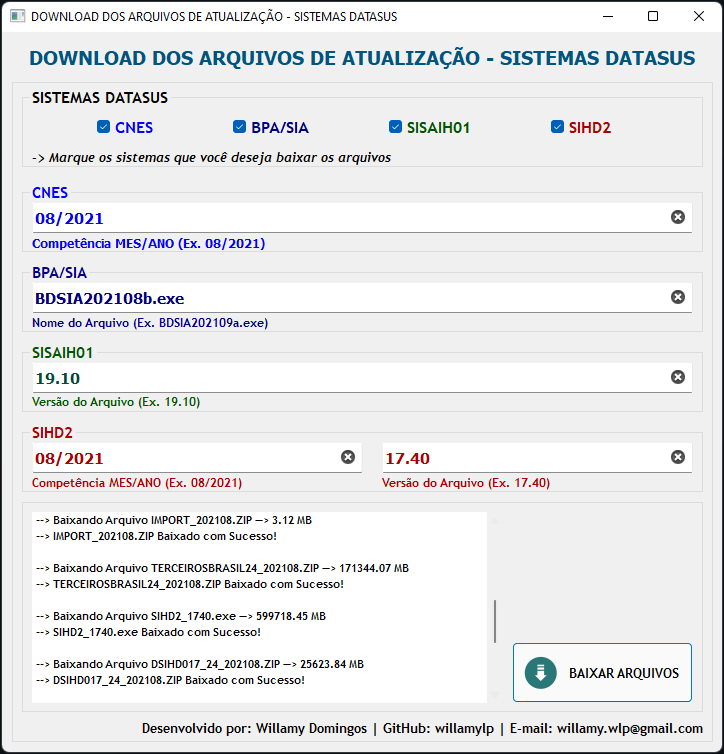
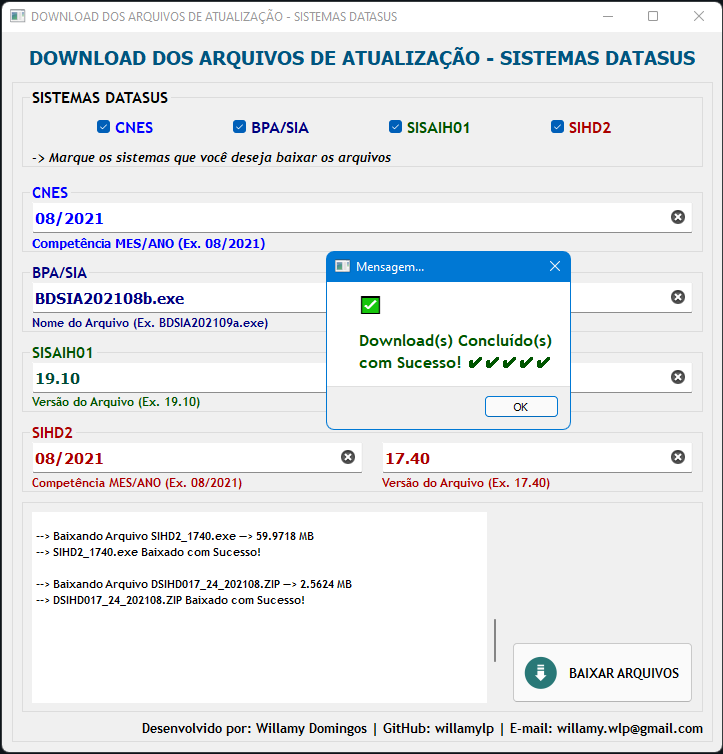
Ajustes na UI: Inserindo MessageBox

diff --git a/main.py b/main.py
@@ -3,8 +3,7 @@ import sys
 from ftplib import FTP
 import getpass
 from ui.UI import Ui_Sys_Datasus
-
-from PyQt5.QtWidgets import QApplication, QMainWindow
+from PyQt5.QtWidgets import QApplication, QMainWindow, QMessageBox, QDialog, QPushButton
 
 class Download_FTP:
     def __init__(self):
@@ -72,6 +71,8 @@ class Download_FTP:
             self.download_SISAIH01()
         if(self.chkSIHD2):
             self.download_SIHD2()
+
+        self.dialog_success()
         
     def verifica_dir(self, directorio):
         if not (os.path.isdir(directorio)):
@@ -81,7 +82,7 @@ class Download_FTP:
         self.ftp = FTP(ftp_host, username, password)
         self.ftp.login()
         self.ftp.cwd(remote_dir)
-        self.size_file = (self.ftp.size(filename) / 1e+6)
+        self.size_file = round((self.ftp.size(filename) / 1e+6), 4)
 
         self.verifica_dir(local_dir)
         
@@ -172,6 +173,18 @@ class Download_FTP:
 
             self.msg = '--> {} Baixado com Sucesso!\n'.format(self.files[key][1])
             self.log_status(self.msg)
+
+
+    def dialog_success(self):
+        msg = QMessageBox()
+        msg.setIcon(QMessageBox.NoIcon)
+        msg.setWindowTitle("Mensagem...")
+        msg.setText('✅')
+        msg.setInformativeText("Download(s) Concluído(s) com Sucesso! ✔✔✔✔✔")
+        msg.setStandardButtons(QMessageBox.Ok)
+        msg.setStyleSheet("QLabel{min-width: 200px; font-size: 12pt; color: rgb(0, 85, 0); font-weight: bold; text-align: center; font-family: 'Trebuchet MS';}");
+        msg.exec()
+        
 
 if __name__ == '__main__':
     app = QApplication(sys.argv)
